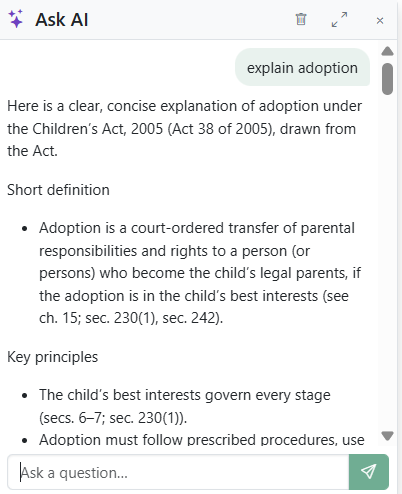
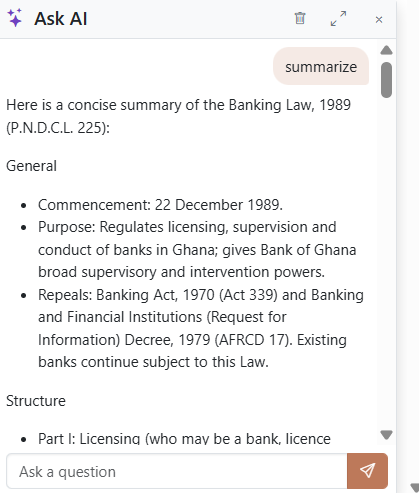
Update site variants [nobuild]

diff --git a/lawlibrary-eng/your-account/delete-your-account.md b/lawlibrary-eng/your-account/delete-your-account.md
@@ -1,0 +1,26 @@
+---
+description: Delete your LawLibrary account if you no longer want to use it.
+---
+
+# Delete your account
+
+If you no longer want to use LawLibrary, you can delete your account from the **My Account** page. Deleting your account cannot be reversed.
+
+
+If you only want to stop paying for your subscription, you may prefer to downgrade to a free account instead of deleting your account.
+
+
+## Important
+
+- Account deletion cannot be reversed.
+- Make sure you want to permanently delete your account before you continue.
+
+## Delete your account
+
+1. Sign in to LawLibrary.
+2. Click on your name in the top-right menu and click **My Account**.
+3. Click **Delete account**.
+4. Confirm that you want to delete your account.
+5. Enter a reason for deleting your account.
+6. Check the box to confirm that you understand the process cannot be reversed.
+7. Complete the deletion process.

diff --git a/liiweb-eng/your-account/delete-your-account.md b/liiweb-eng/your-account/delete-your-account.md
@@ -1,0 +1,24 @@
+---
+description: Delete your Legal Information Website account if you no longer want to use it.
+---
+
+# Delete your account
+
+If you no longer want to use Legal Information Website, you can delete your account from the **My Account** page. Deleting your account cannot be reversed.
+
+
+
+## Important
+
+- Account deletion cannot be reversed.
+- Make sure you want to permanently delete your account before you continue.
+
+## Delete your account
+
+1. Sign in to Legal Information Website.
+2. Click on your name in the top-right menu and click **My Account**.
+3. Click **Delete account**.
+4. Confirm that you want to delete your account.
+5. Enter a reason for deleting your account.
+6. Check the box to confirm that you understand the process cannot be reversed.
+7. Complete the deletion process.

diff --git a/kenyalaw-eng/your-account/delete-your-account.md b/kenyalaw-eng/your-account/delete-your-account.md
@@ -1,0 +1,24 @@
+---
+description: Delete your Kenya Law account if you no longer want to use it.
+---
+
+# Delete your account
+
+If you no longer want to use Kenya Law, you can delete your account from the **My Account** page. Deleting your account cannot be reversed.
+
+
+
+## Important
+
+- Account deletion cannot be reversed.
+- Make sure you want to permanently delete your account before you continue.
+
+## Delete your account
+
+1. Sign in to Kenya Law.
+2. Click on your name in the top-right menu and click **My Account**.
+3. Click **Delete account**.
+4. Confirm that you want to delete your account.
+5. Enter a reason for deleting your account.
+6. Check the box to confirm that you understand the process cannot be reversed.
+7. Complete the deletion process.

diff --git a/tanzlii-eng/your-account/delete-your-account.md b/tanzlii-eng/your-account/delete-your-account.md
@@ -1,0 +1,24 @@
+---
+description: Delete your TanzLII account if you no longer want to use it.
+---
+
+# Delete your account
+
+If you no longer want to use TanzLII, you can delete your account from the **My Account** page. Deleting your account cannot be reversed.
+
+
+
+## Important
+
+- Account deletion cannot be reversed.
+- Make sure you want to permanently delete your account before you continue.
+
+## Delete your account
+
+1. Sign in to TanzLII.
+2. Click on your name in the top-right menu and click **My Account**.
+3. Click **Delete account**.
+4. Confirm that you want to delete your account.
+5. Enter a reason for deleting your account.
+6. Check the box to confirm that you understand the process cannot be reversed.
+7. Complete the deletion process.

diff --git a/ghalii-eng/your-account/delete-your-account.md b/ghalii-eng/your-account/delete-your-account.md
@@ -1,0 +1,24 @@
+---
+description: Delete your GhaLII account if you no longer want to use it.
+---
+
+# Delete your account
+
+If you no longer want to use GhaLII, you can delete your account from the **My Account** page. Deleting your account cannot be reversed.
+
+
+
+## Important
+
+- Account deletion cannot be reversed.
+- Make sure you want to permanently delete your account before you continue.
+
+## Delete your account
+
+1. Sign in to GhaLII.
+2. Click on your name in the top-right menu and click **My Account**.
+3. Click **Delete account**.
+4. Confirm that you want to delete your account.
+5. Enter a reason for deleting your account.
+6. Check the box to confirm that you understand the process cannot be reversed.
+7. Complete the deletion process.

diff --git a/seylii-eng/your-account/delete-your-account.md b/seylii-eng/your-account/delete-your-account.md
@@ -1,0 +1,24 @@
+---
+description: Delete your SeyLII account if you no longer want to use it.
+---
+
+# Delete your account
+
+If you no longer want to use SeyLII, you can delete your account from the **My Account** page. Deleting your account cannot be reversed.
+
+
+
+## Important
+
+- Account deletion cannot be reversed.
+- Make sure you want to permanently delete your account before you continue.
+
+## Delete your account
+
+1. Sign in to SeyLII.
+2. Click on your name in the top-right menu and click **My Account**.
+3. Click **Delete account**.
+4. Confirm that you want to delete your account.
+5. Enter a reason for deleting your account.
+6. Check the box to confirm that you understand the process cannot be reversed.
+7. Complete the deletion process.

diff --git a/ulii-eng/your-account/delete-your-account.md b/ulii-eng/your-account/delete-your-account.md
@@ -1,0 +1,24 @@
+---
+description: Delete your ULII account if you no longer want to use it.
+---
+
+# Delete your account
+
+If you no longer want to use ULII, you can delete your account from the **My Account** page. Deleting your account cannot be reversed.
+
+
+
+## Important
+
+- Account deletion cannot be reversed.
+- Make sure you want to permanently delete your account before you continue.
+
+## Delete your account
+
+1. Sign in to ULII.
+2. Click on your name in the top-right menu and click **My Account**.
+3. Click **Delete account**.
+4. Confirm that you want to delete your account.
+5. Enter a reason for deleting your account.
+6. Check the box to confirm that you understand the process cannot be reversed.
+7. Complete the deletion process.

diff --git a/ghalii-eng/your-account/manage-your-account.md b/ghalii-eng/your-account/manage-your-account.md
@@ -18,4 +18,5 @@ Your account area helps you keep your profile details up to date and manage your
 - Account details such as your name and email address.
 - Your password (you can set one if you prefer to log in with a password instead of an email code).
 - Subscription and billing information (where available).
+- Account closure if you decide to [delete your account](delete-your-account.md).
   

diff --git a/lawlibrary-eng/your-account/manage-your-account.md b/lawlibrary-eng/your-account/manage-your-account.md
@@ -18,4 +18,5 @@ Your account area helps you keep your profile details up to date and manage your
 - Account details such as your name and email address.
 - Your password (you can set one if you prefer to log in with a password instead of an email code).
 - Subscription and billing information (where available).
+- Account closure if you decide to [delete your account](delete-your-account.md).
   

diff --git a/tanzlii-eng/your-account/manage-your-account.md b/tanzlii-eng/your-account/manage-your-account.md
@@ -18,4 +18,5 @@ Your account area helps you keep your profile details up to date and manage your
 - Account details such as your name and email address.
 - Your password (you can set one if you prefer to log in with a password instead of an email code).
 - Subscription and billing information (where available).
+- Account closure if you decide to [delete your account](delete-your-account.md).
   

diff --git a/ulii-eng/your-account/manage-your-account.md b/ulii-eng/your-account/manage-your-account.md
@@ -18,4 +18,5 @@ Your account area helps you keep your profile details up to date and manage your
 - Account details such as your name and email address.
 - Your password (you can set one if you prefer to log in with a password instead of an email code).
 - Subscription and billing information (where available).
+- Account closure if you decide to [delete your account](delete-your-account.md).
   

diff --git a/ghalii-eng/README.md b/ghalii-eng/README.md
@@ -32,4 +32,5 @@ GhaLII helps you quickly find legal information and navigate documents with conf
 
 * [Create an account](your-account/create-an-account.md)
 * [Reset your password](your-account/reset-your-password.md)
+* [Delete your account](your-account/delete-your-account.md)
 * [Get help and support](additional-resources/get-help-and-support.md)
